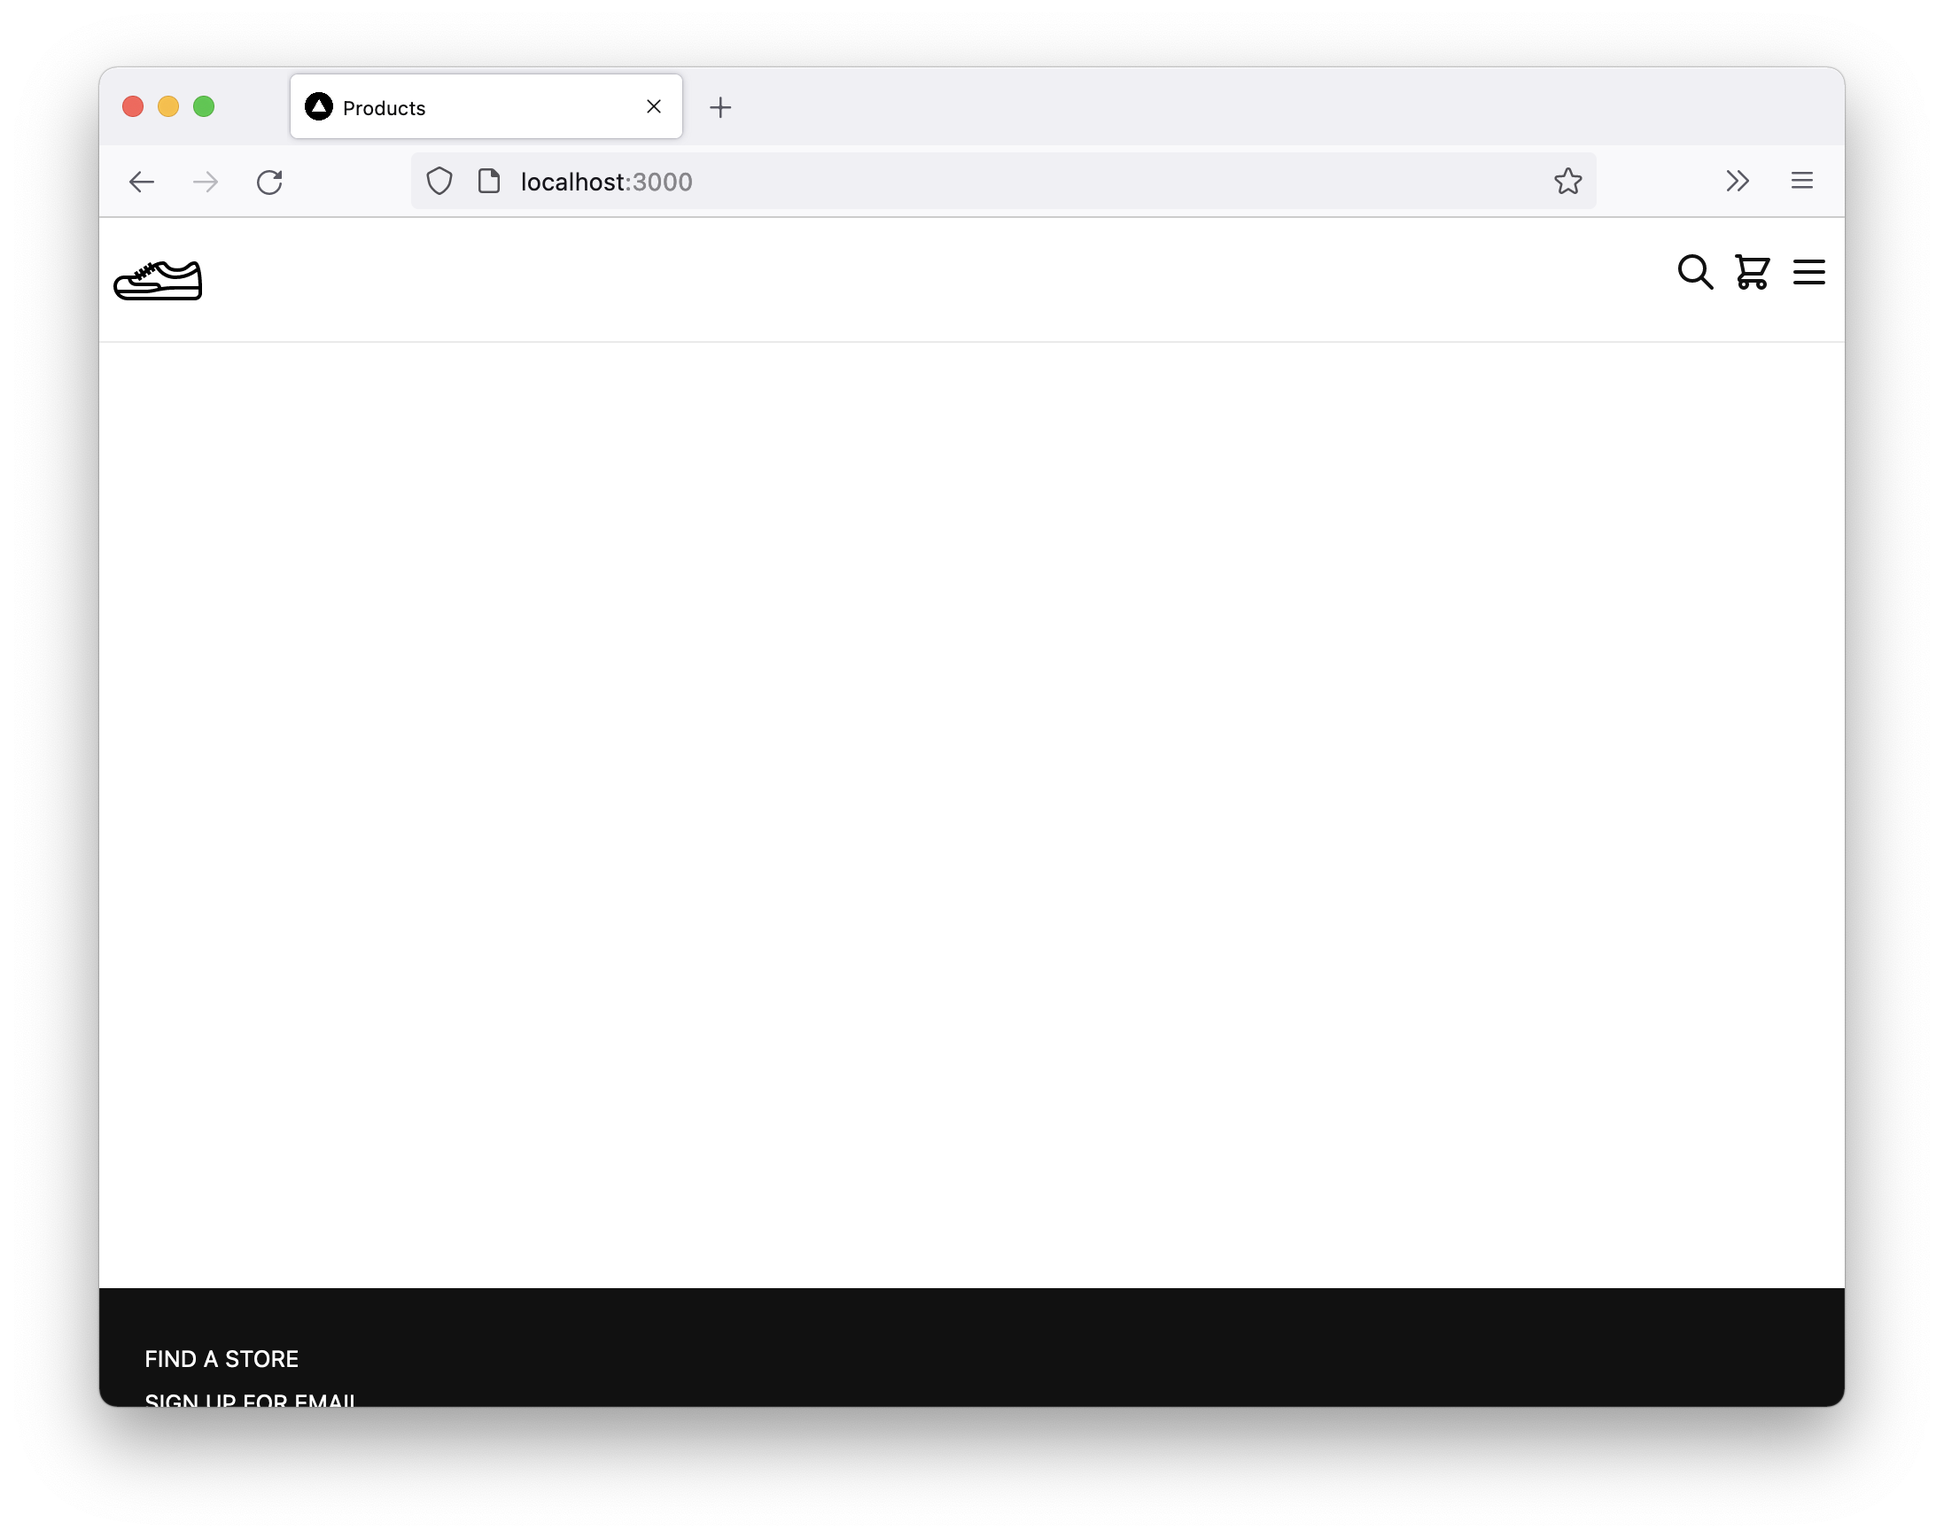
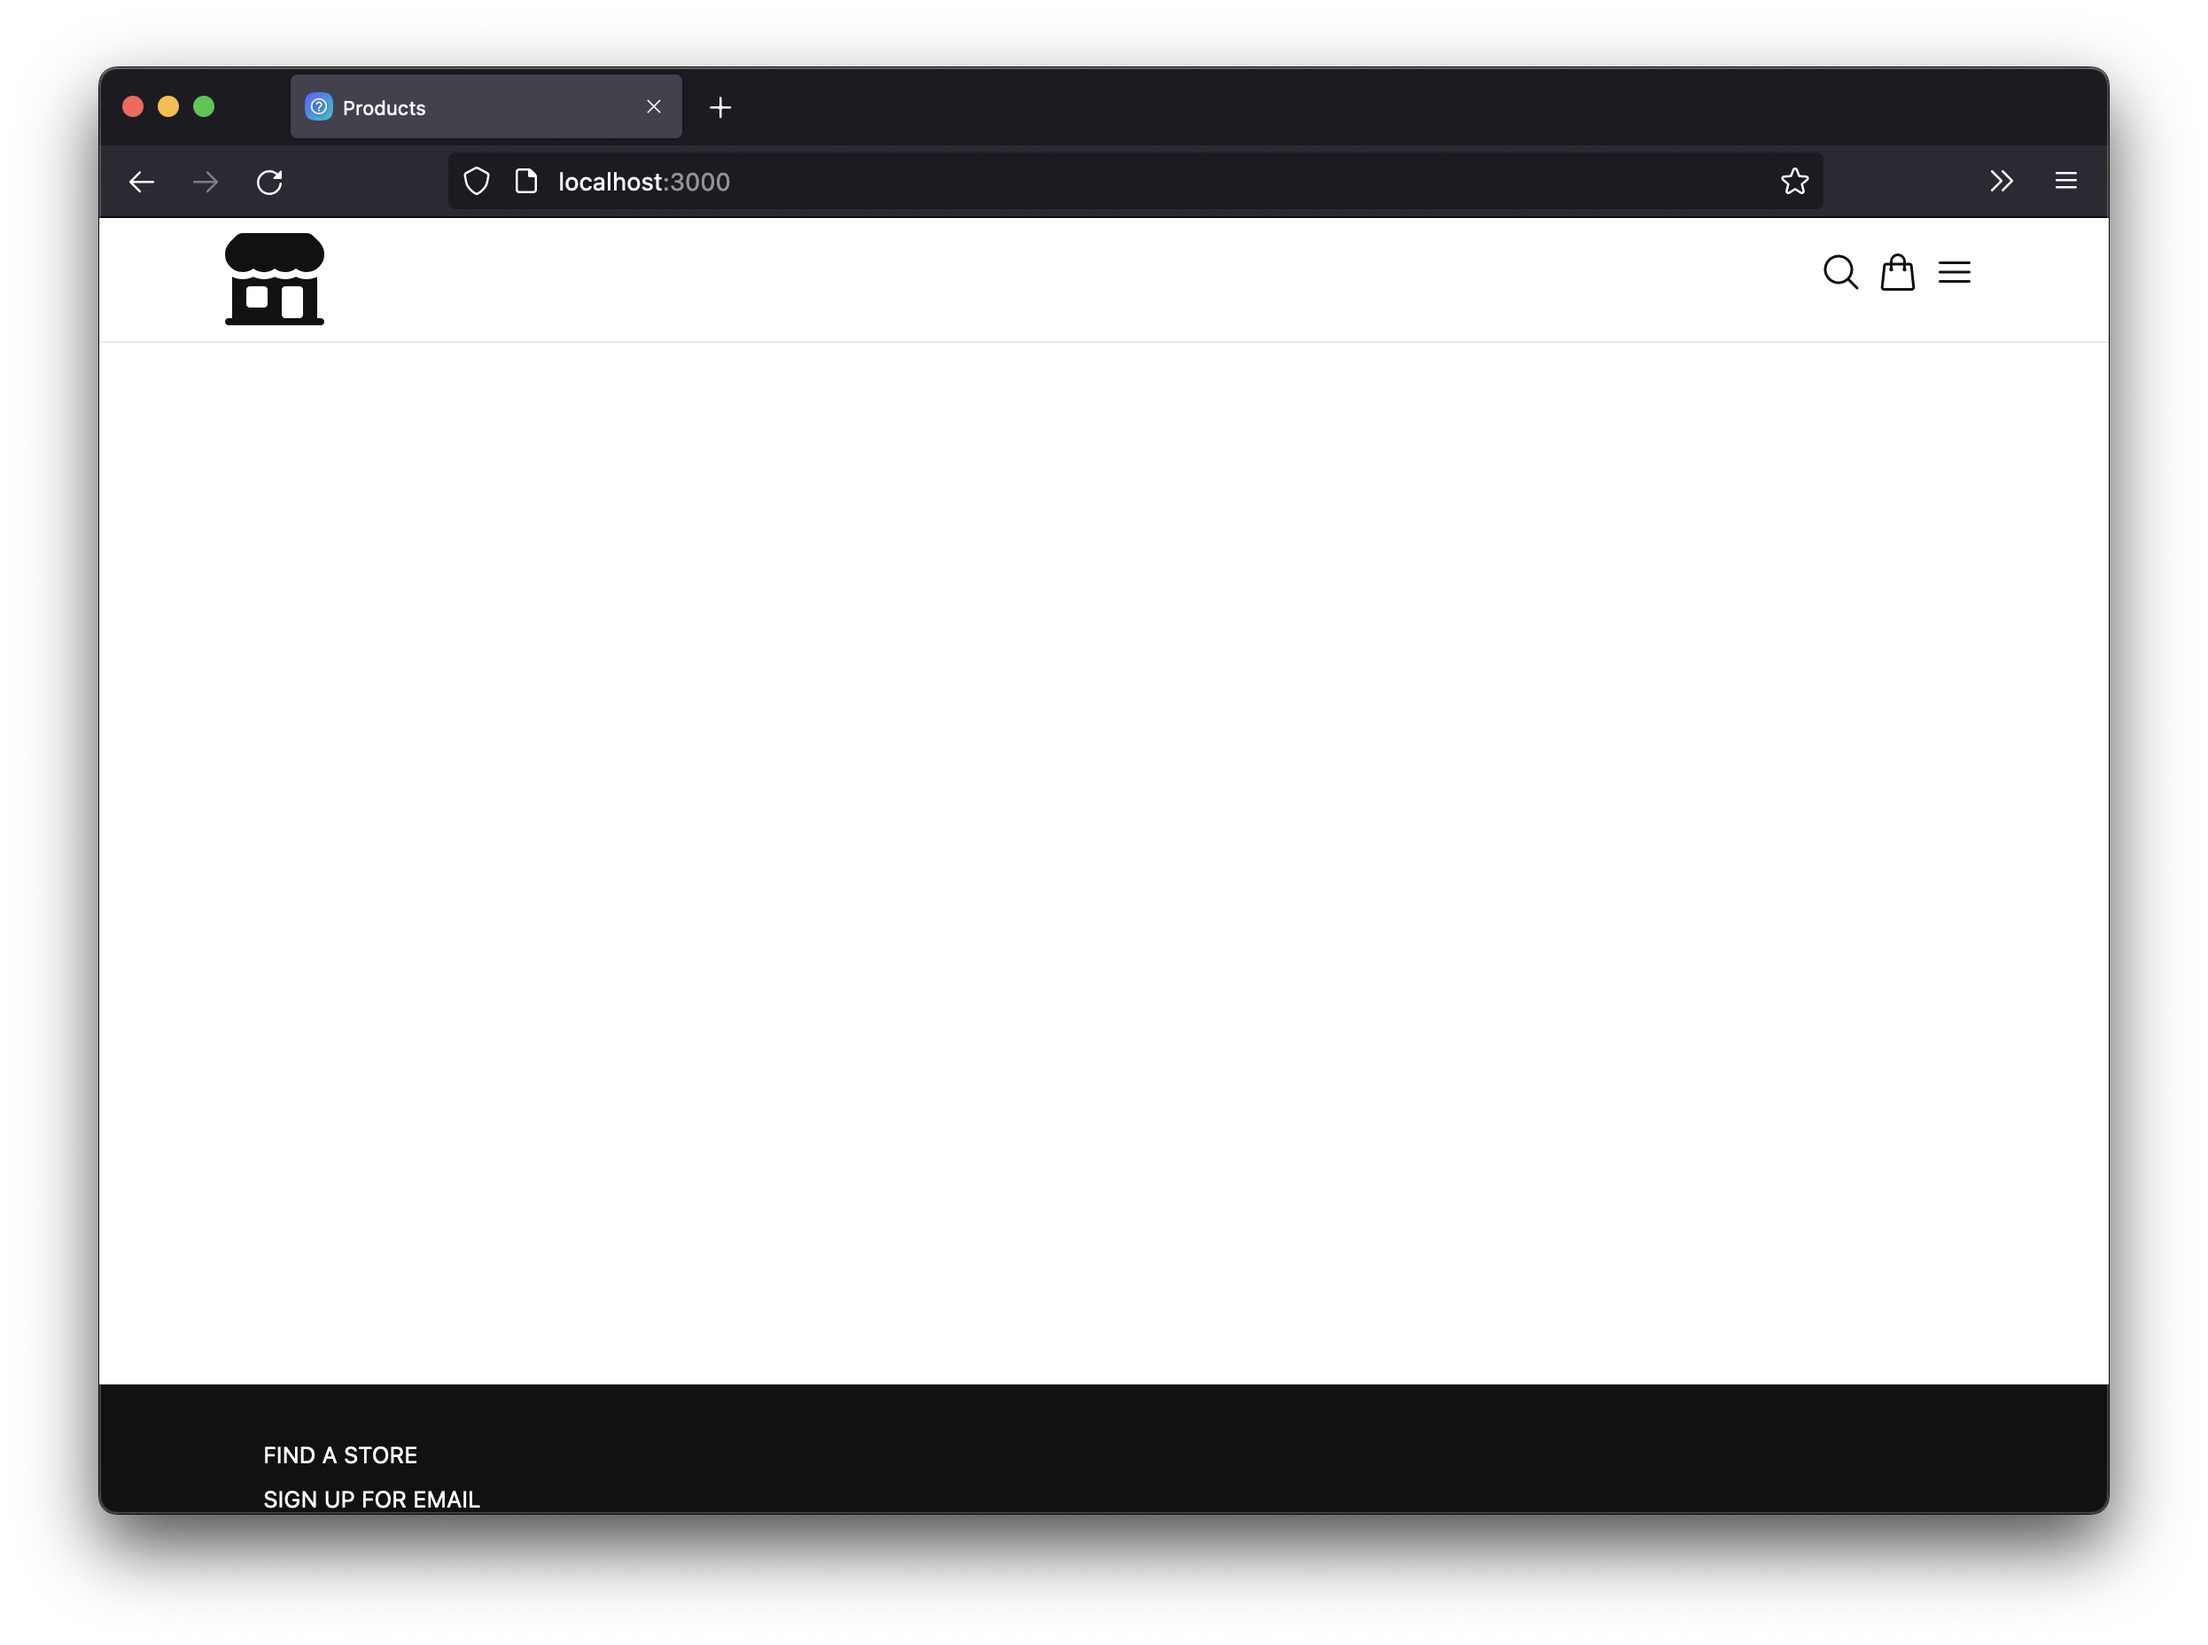
Updated image for shop page and updated year

Changed region(s): [[0.031, 0.0311, 0.9918, 0.9643]]

diff --git a/content/articles/shop-nextjs-stripe-introduction/index.md b/content/articles/shop-nextjs-stripe-introduction/index.md
@@ -343,7 +343,7 @@ export const Footer = () => {
             <li>Feedback</li>
           </ul>
         </nav>
-        <div className={styles.copyright}>&copy; 2021 Shoe Shop</div>
+        <div className={styles.copyright}>&copy; 2022 Shoe Shop</div>
       </div>
     </footer>
   );
